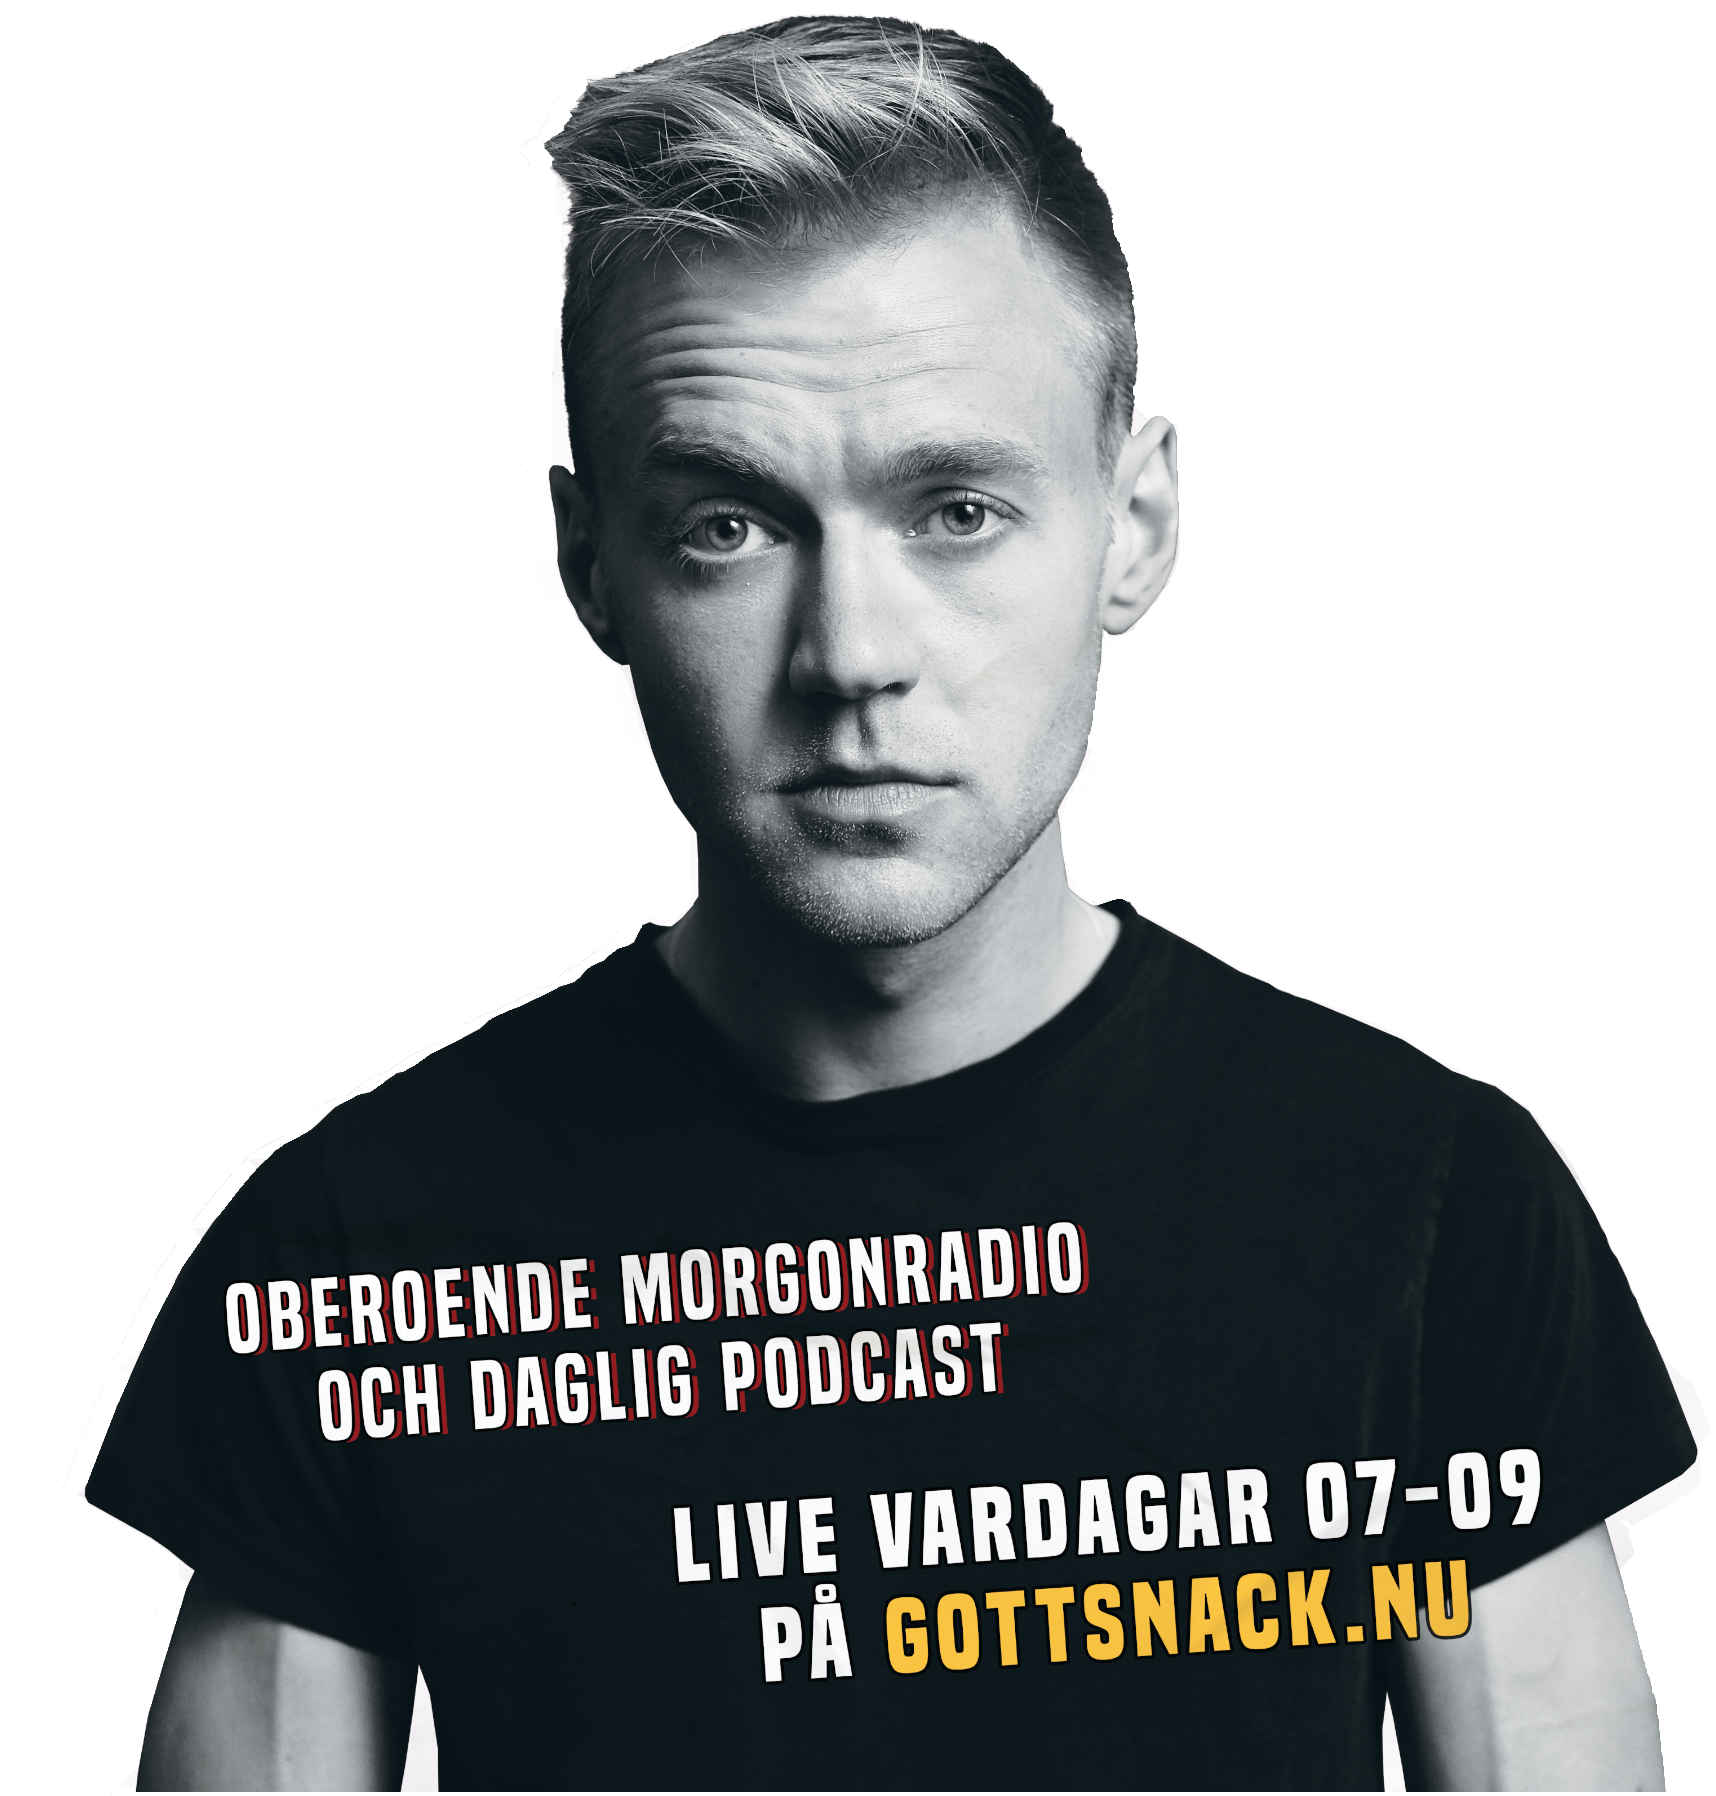
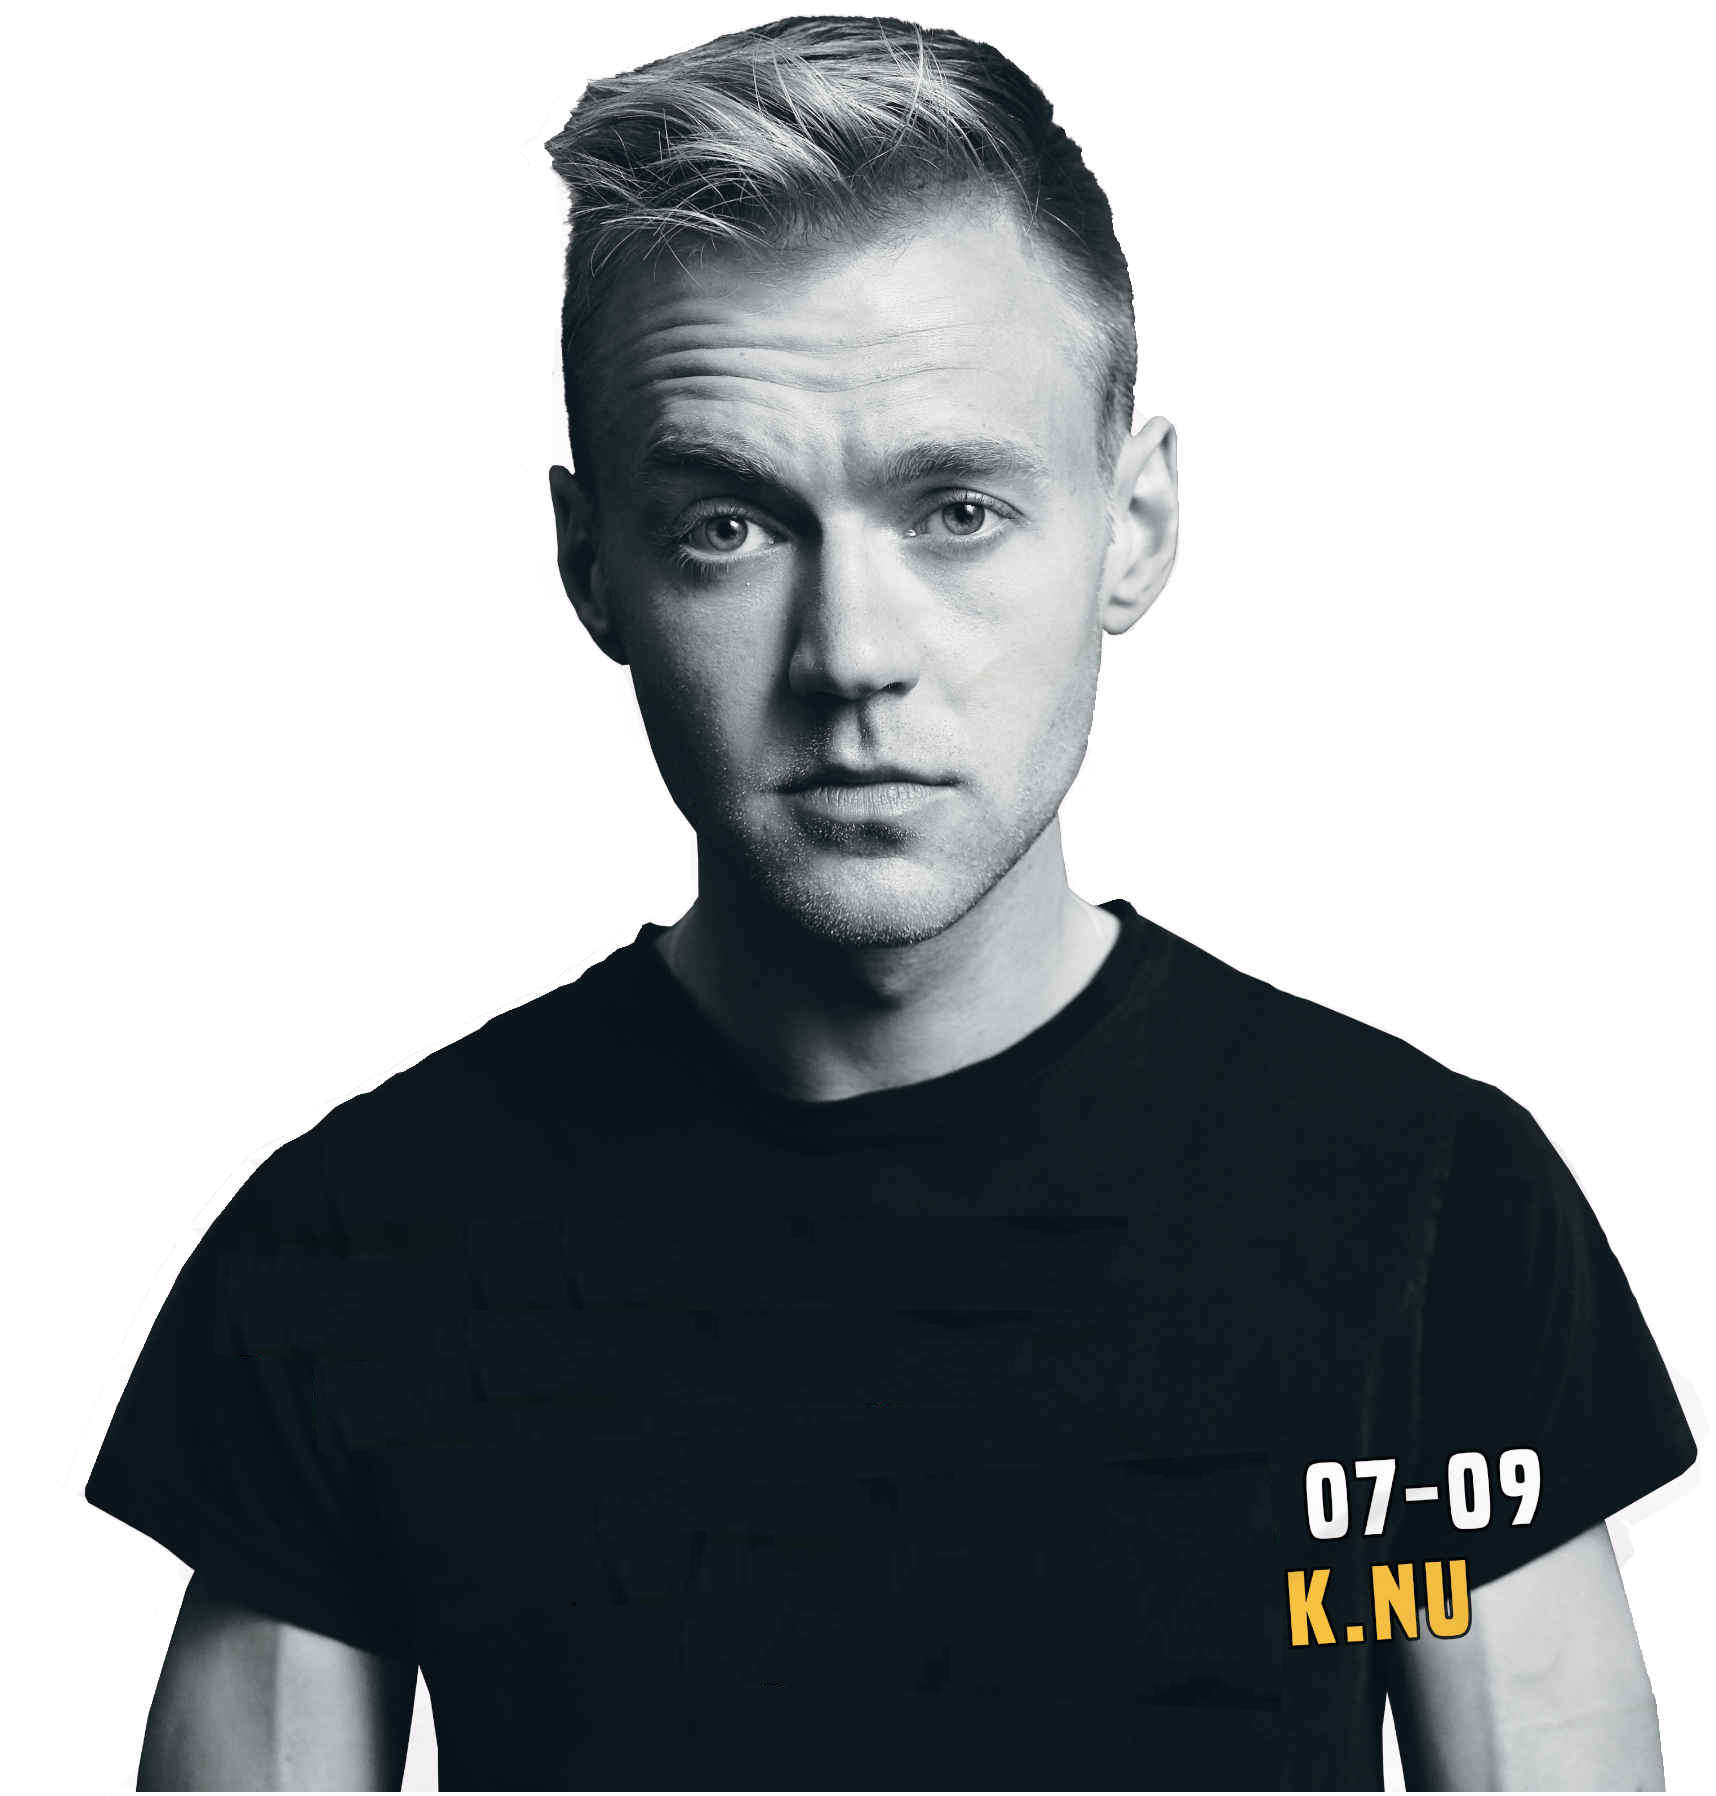
some design fix and added image part in cms.

Changed region(s): [[0.1235, 0.686, 0.6486, 0.8107], [0.3706, 0.8107, 0.7413, 0.9354]]

diff --git a/src/templates/about-page.js b/src/templates/about-page.js
@@ -4,32 +4,57 @@ import { graphql } from 'gatsby'
 import Layout from '../components/Layout'
 import Content, { HTMLContent } from '../components/Content'
 
-export const AboutPageTemplate = ({ title, content, contentComponent }) => {
+export const AboutPageTemplate = ({ image, title, content, contentComponent }) => {
   const PageContent = contentComponent || Content
 
   return (
-    <section className="section section--gradient">
-      <div className="container">
-        <div className="columns">
-          <div className="column is-10 is-offset-1">
-            <div className="section">
-              <h2 className="title is-size-3 has-text-weight-bold is-bold-light">
-                {title}
-              </h2>
-              <PageContent className="content" content={content} />
+    <div>
+    {/*}
+      <div
+        className="full-width-image-container margin-top-0"
+        style={{
+          backgroundImage: `url(${
+            !!image.childImageSharp ? image.childImageSharp.fluid.src : image
+          })`
+        }}
+      >
+        <h2
+          className="has-text-weight-bold is-size-1"
+          style={{
+            boxShadow: "0.5rem 0 0 #f40, -0.5rem 0 0 #f40",
+            backgroundColor: "#f40",
+            color: "white",
+            padding: "1rem"
+          }}
+        >
+          {title}
+        </h2>
+      </div>
+        */}
+      <section className="section section--gradient">
+        <div className="container">
+          <div className="columns">
+            <div className="column is-10 is-offset-1">
+              <div className="section">
+                <h2 className="title is-size-3 has-text-weight-bold is-bold-light">
+                  {title}
+                </h2>
+                <PageContent className="content" content={content} />
+              </div>
             </div>
           </div>
         </div>
-      </div>
-    </section>
-  )
+      </section>
+    </div>
+  );
 }
 
 AboutPageTemplate.propTypes = {
+  image: PropTypes.oneOfType([PropTypes.object, PropTypes.string]),
   title: PropTypes.string.isRequired,
   content: PropTypes.string,
-  contentComponent: PropTypes.func,
-}
+  contentComponent: PropTypes.func
+};
 
 const AboutPage = ({ data }) => {
   const { markdownRemark: post } = data
@@ -52,12 +77,19 @@ AboutPage.propTypes = {
 export default AboutPage
 
 export const aboutPageQuery = graphql`
-  query AboutPage($id: String!) {
-    markdownRemark(id: { eq: $id }) {
-      html
-      frontmatter {
-        title
-      }
-    }
-  }
-`
+         query AboutPage($id: String!) {
+           markdownRemark(id: { eq: $id }) {
+             html
+             frontmatter {
+               title
+               image {
+                 childImageSharp {
+                   fluid(maxWidth: 2048, quality: 100) {
+                     ...GatsbyImageSharpFluid
+                   }
+                 }
+               }
+             }
+           }
+         }
+       `;

diff --git a/src/components/Navbar.js b/src/components/Navbar.js
@@ -42,7 +42,7 @@ const Navbar = class extends React.Component {
         <div className="container">
           <div className="navbar-brand">
             <Link to="/" className="navbar-item" title="Logo">
-              <img src={logo} alt="Kaldi" style={{ width: '166px' }} />
+              <img src={logo} alt="Kaldi" style={{ width: "166px" }} />
             </Link>
             {/* Hamburger menu */}
             <div
@@ -63,24 +63,27 @@ const Navbar = class extends React.Component {
               <Link className="navbar-item" to="/about">
                 Om oss
               </Link>
-              <Link className="navbar-item" to="/products">
+              <a
+                className="navbar-item"
+                href="https://www.radioplay.se/podcast" target="_blank"
+              >
                 Poddar
-              </Link>
-{/*
+              </a>
+              {/*
               <Link className="navbar-item" to="/blog">
                 Blog
               </Link>
-*/}              
+*/}
               <Link className="navbar-item" to="/contact">
                 Kontakt
               </Link>
-{/*}              
+              {/*}              
               <Link className="navbar-item" to="/contact/examples">
                 Form Examples
               </Link>
 */}
-              </div>
-{/*}              
+            </div>
+            {/*}              
             <div className="navbar-end has-text-centered">
               <a
                 className="navbar-item"
@@ -93,11 +96,11 @@ const Navbar = class extends React.Component {
                 </span>
               </a>
             </div>
-*/}            
+*/}
           </div>
         </div>
       </nav>
-    )
+    );
   }
 }
 

diff --git a/src/components/all.sass b/src/components/all.sass
@@ -146,6 +146,9 @@ $menu-label-color: $white-ter
 +desktop
   .full-width-image
     height: 812px
+//  .test
+//    position: fixed !important
+//    right: 20% !important
 
 +tablet-only
   .blog-list-item .featured-thumbnail

diff --git a/gatsby-config.js b/gatsby-config.js
@@ -1,6 +1,6 @@
 module.exports = {
   siteMetadata: {
-    title: 'Gott Snack',
+    title: 'Gott Snack - Gränslös Morgonradio',
     description:
       'Gott snack - oberoende radio live varje vardag kl 07 - 09',
   },
